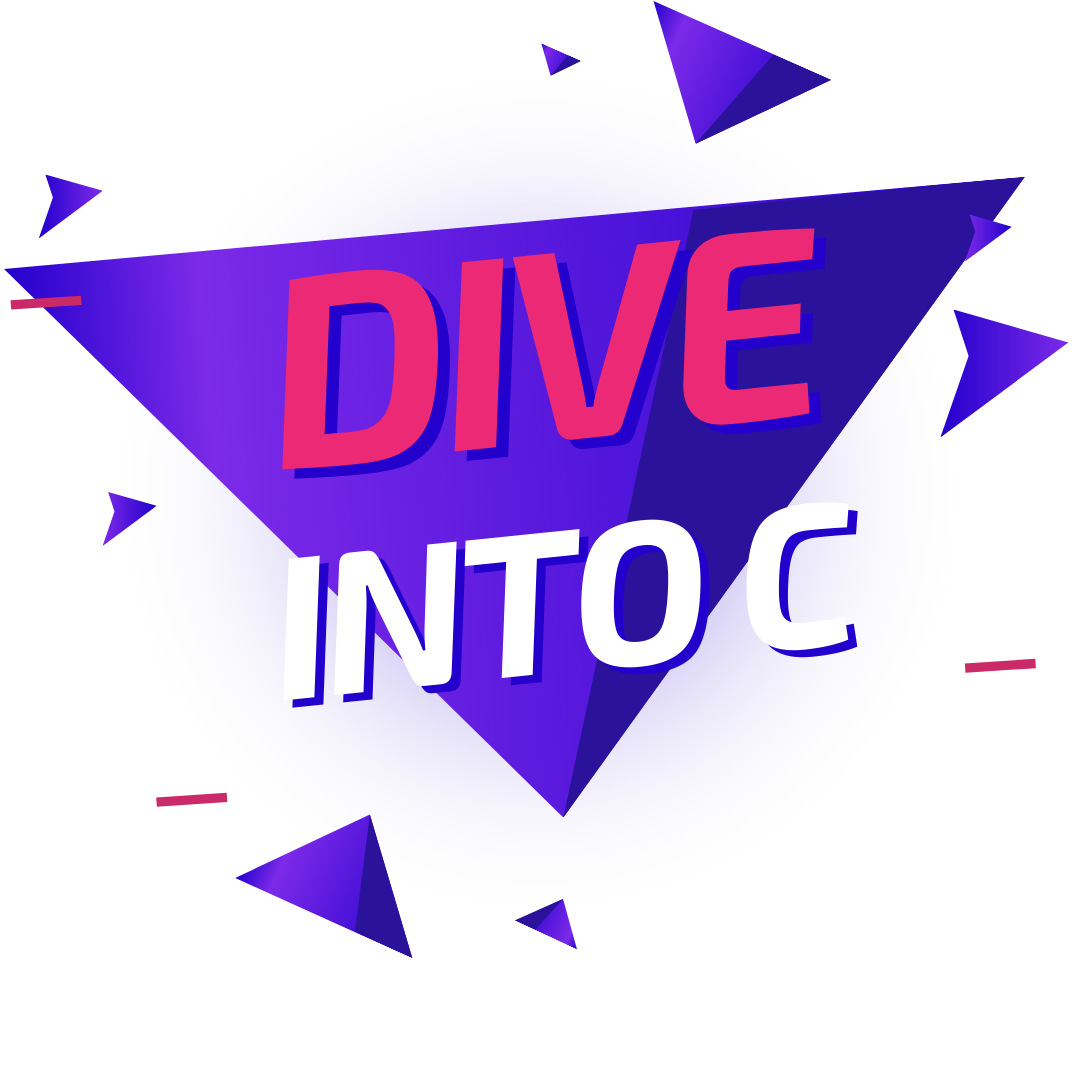
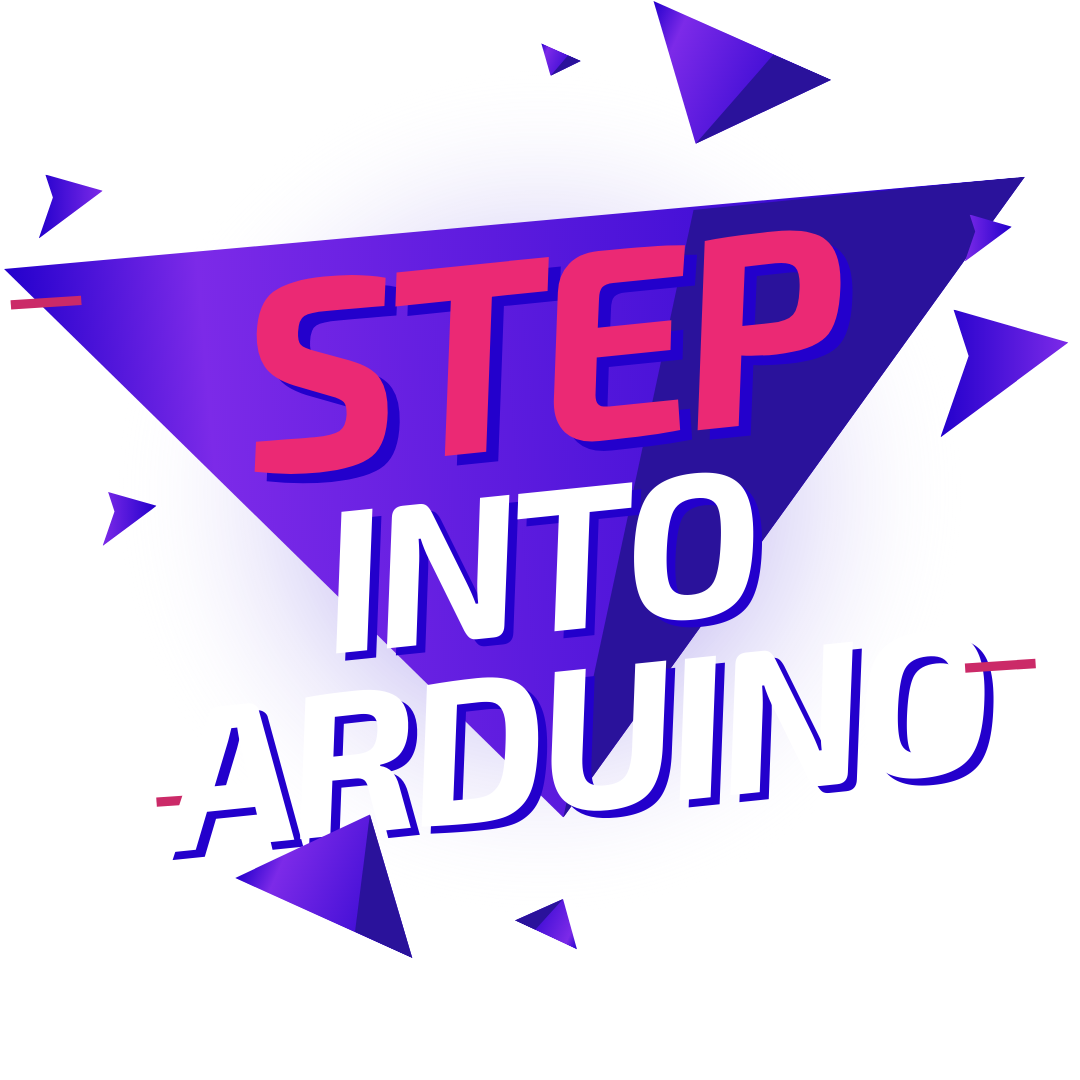
update arduino

Changed region(s): [[0.2139, 0.2139, 0.7944, 0.7944], [0.1528, 0.6722, 0.3056, 0.7944], [0.825, 0.6111, 0.9472, 0.7333]]

diff --git a/step-into-arduino.html b/step-into-arduino.html
@@ -99,11 +99,11 @@
       <div class="event-details-2-text">
         <h3>About Phoenix Robotics Club's <span>Dive into C</span></h3>
         <p>Phoenix Robotics Club took an initiative to
-          conduct the workshop “Dive into C” on C-language in
+          conduct the workshop “step into Arduino” on Arduino in
           a practical-oriented way of learning. Regardless of
           what we are learning, we must learn it from the
-          basics. So, the workshop “Dive into C” focuses on
-          laying the solid foundations in C-Programming.
+          basics. So, the workshop “Step into Arduino” focuses on
+          laying the solid foundations in Arduino with embedded C-Programming.
           According to say “Nail the basics first, Detail the
           details later,” we feel learning from the basics will
           help us to solve the most complex problems.</p>
@@ -129,12 +129,11 @@
       <h2 id="table-of-contents-heading">What you will learn?</h2>
       <div class="table_of_contents">
         <ul>
-          <li>Introduction to Programming and Programming
-            languages.
+          <li>Introduction to Robotics
           </li>
         </ul>
         <ul>
-          <li>Coding Vs Programming
+          <li>Microcontroller
           </li>
         </ul>
         <ul>
@@ -195,6 +194,31 @@
           <li>Qualify the test</li>
           <li>Receive the certificate.</li>
         </ol>
+      </div>
+    </div>
+    <div class="mentor">
+      <h1>Know your Mentor</h1>
+      <div class="mentor-grid">
+        <div class="mentor-profile">
+          <img src="images/boy.png" alt="">
+          <p>K V Bhargava Ram</p>
+          <p>Information Science and Engineering</p>
+        </div>
+        <div class="mentor-profile">
+          <img src="images/girl.png" alt="">
+          <p>Pallavi Y</p>
+          <p>Information Science and Engineering</p>
+        </div>
+        <div class="mentor-profile">
+          <img src="images/girl.png" alt="">
+          <p>Shreya N</p>
+          <p>Electronics and Communication Engineering</p>
+        </div>
+        <div class="mentor-profile">
+          <img src="images/girl.png" alt="">
+          <p>Soumili Sahu</p>
+          <p>Computer Science and Engineering</p>
+        </div>
       </div>
     </div>
   </div>

diff --git a/event-2.css b/event-2.css
@@ -207,11 +207,14 @@ body{
 }
 #details-heading{
     text-align: center;
-    border-bottom:1.5px solid grey;
+    border-bottom:6px solid grey;
     font-family: 'Zen Dots', cursive;
     font-size:3rem ;
     text-align: center;
     color: black;
+}
+.details h1{
+    text-align: center;
 }
 .details span{
     color: #1e63b3;
@@ -244,6 +247,8 @@ body{
     flex-direction: column;
     justify-content:center;
     gap: 50px;
+    padding: 20px;
+    text-align: center;
 }
 .table_of_contents{
     display: grid;
@@ -290,6 +295,24 @@ option{
 }
 option:focus{
     outline: none;
+}
+.mentor-grid{
+    display:grid;
+    grid-template-columns:1fr 1fr 1fr 1fr;
+    gap: 10px;
+}
+.mentor-grid img{
+    width:80%;
+}
+.mentor-profile{
+    padding:3px;
+    text-align:center;
+    display: flex;
+    flex-direction: column;
+    align-items: center;
+    justify-content:space-around;
+    border:2px solid grey;
+    border-radius:30px;
 }
 @media screen and (max-width:900px){
     body{
@@ -446,5 +469,9 @@ option:focus{
         flex-direction: column;
         justify-content:space-between;
         gap: 24px;
+    }
+    .mentor-grid{
+        display:grid;
+        grid-template-columns:1fr 1fr;
     }
 }
